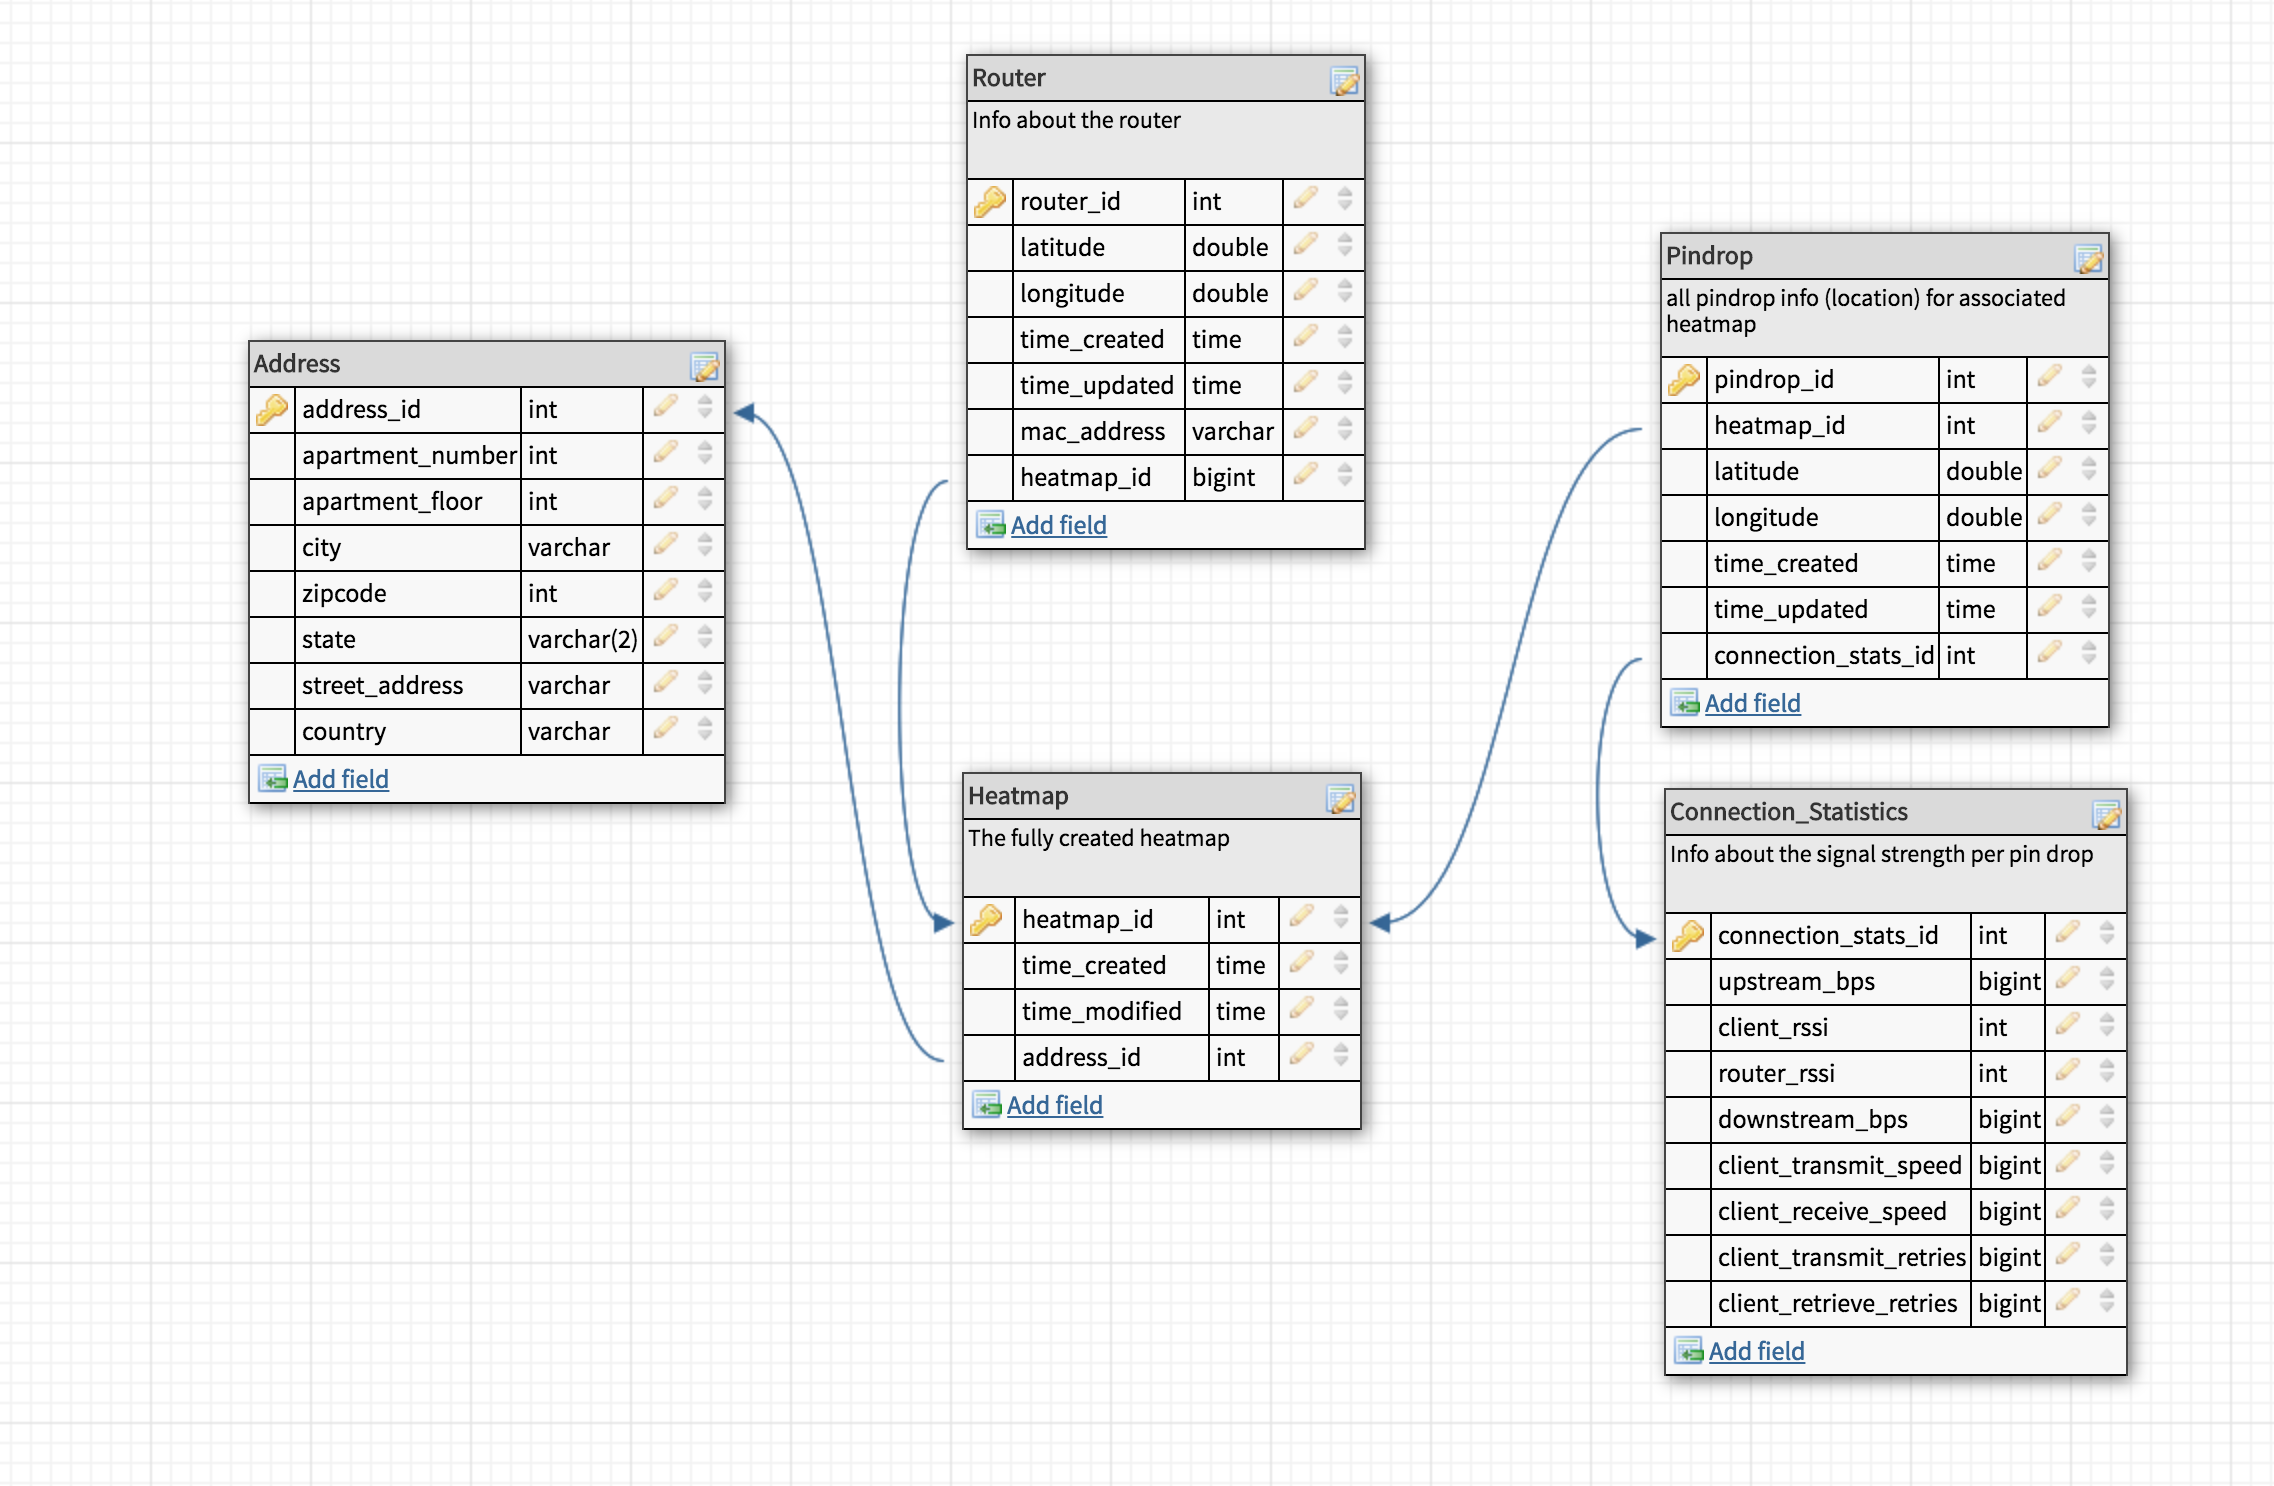
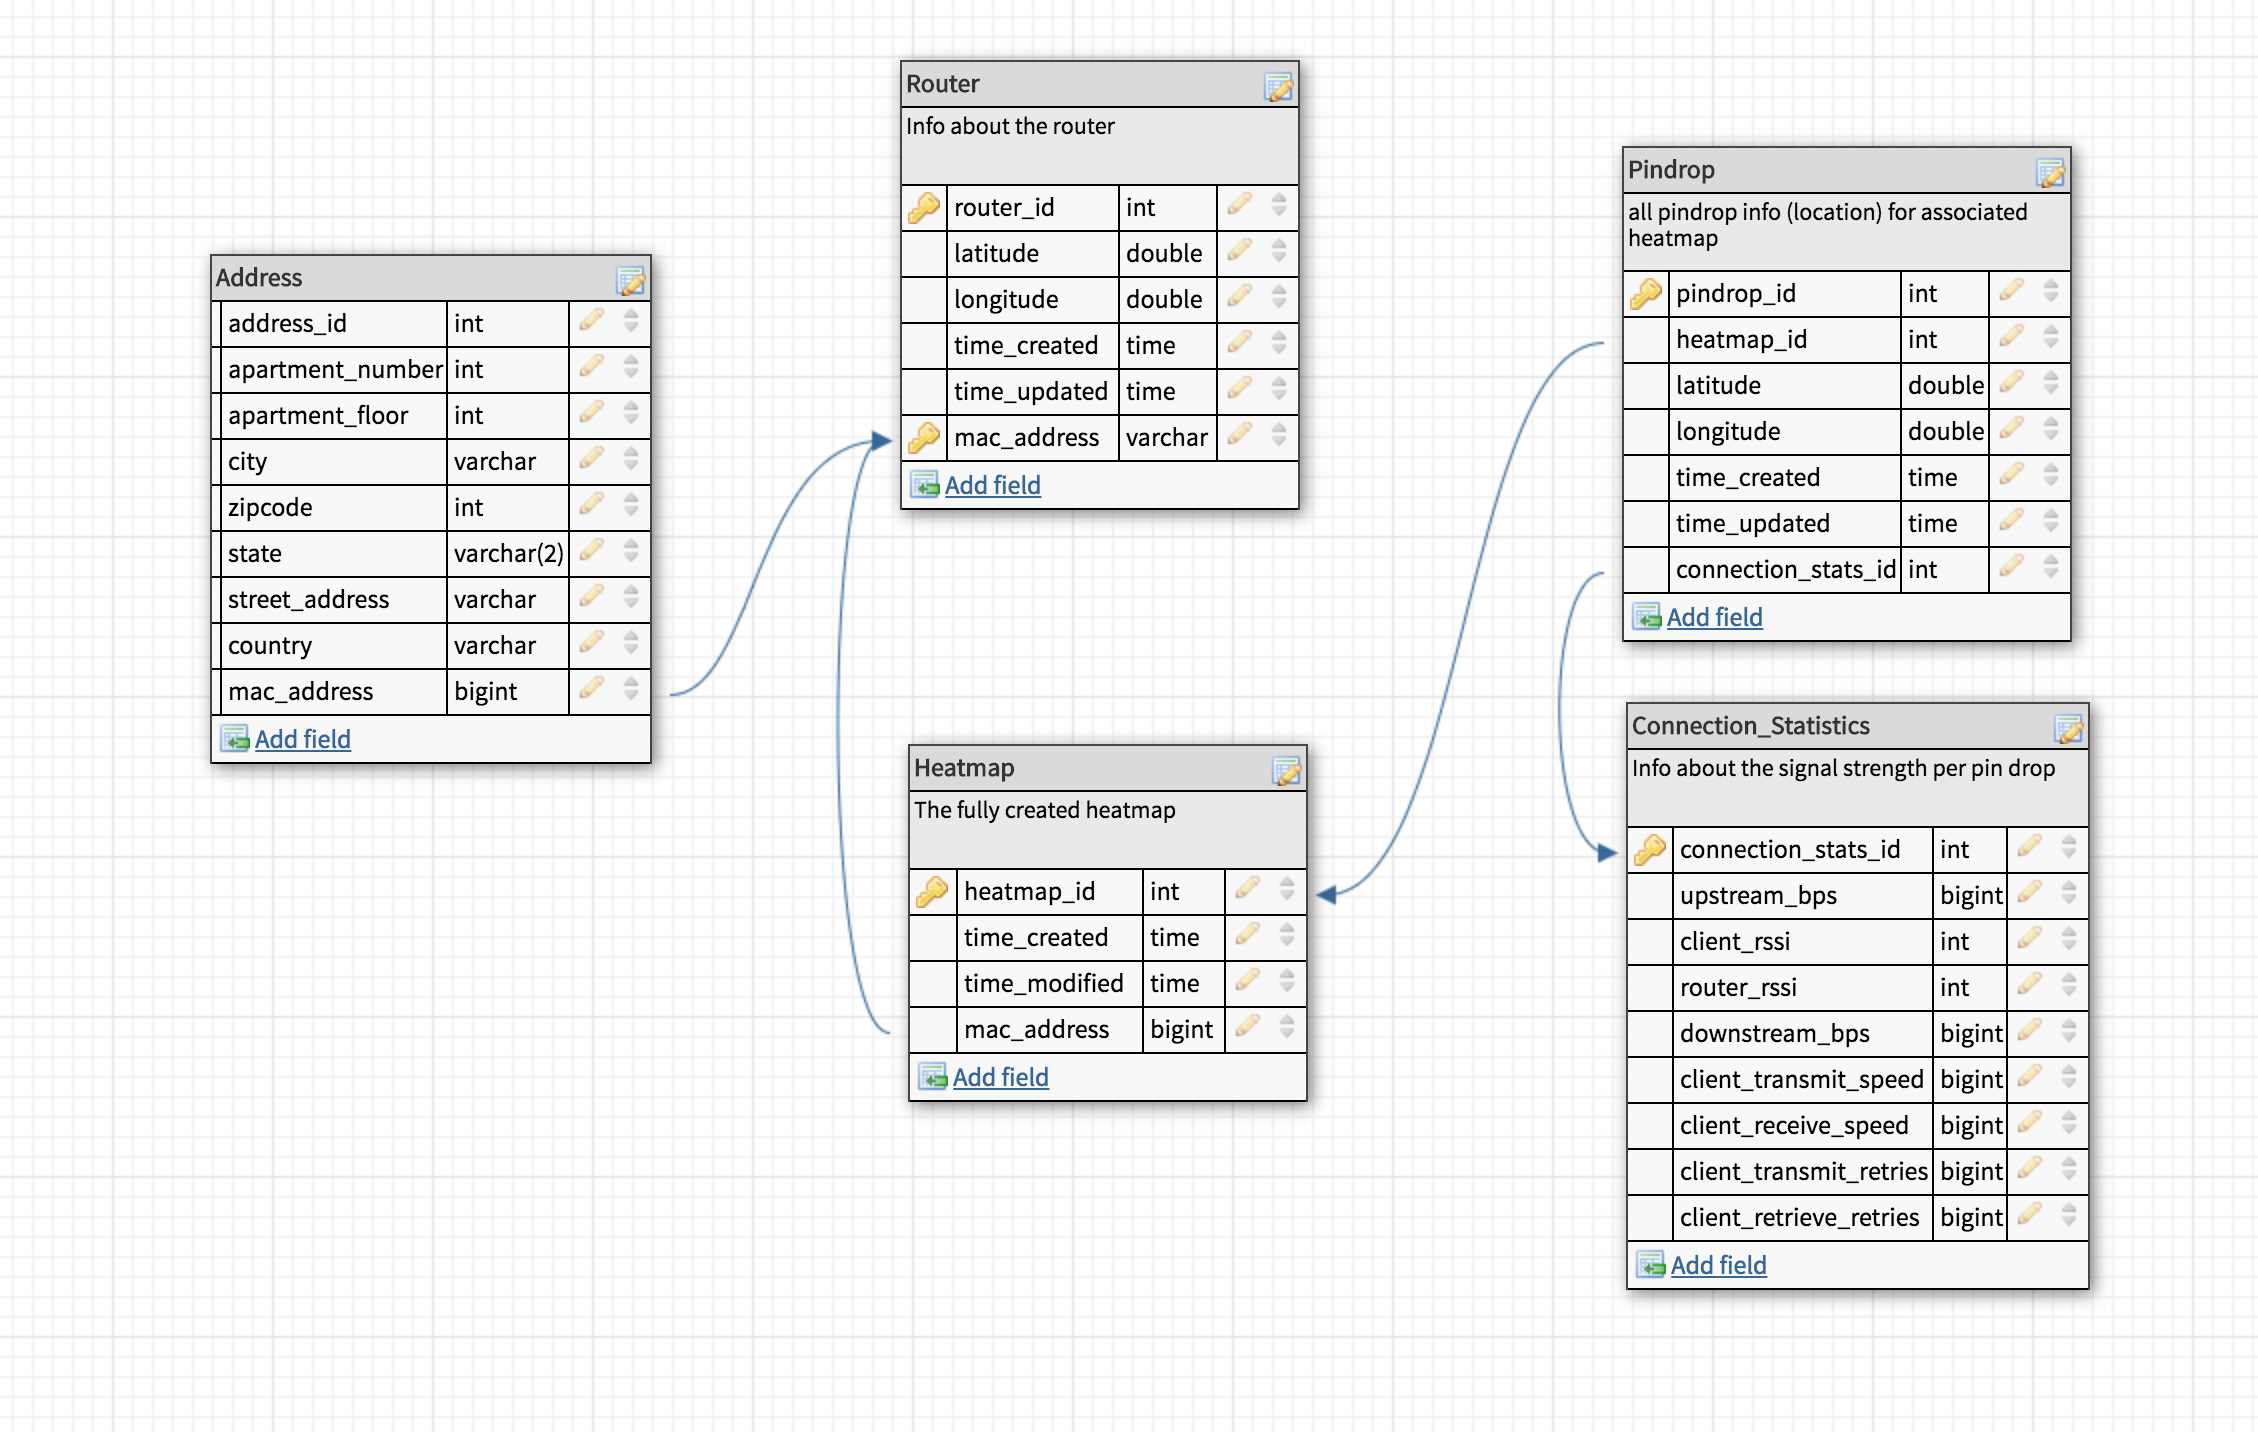
added get request for particular address given mac_address and also updated ReadMe diagram and table of possible requests to reflect this change

diff --git a/dist/v1Routes/AddressesRoute.js b/dist/v1Routes/AddressesRoute.js
@@ -71,5 +71,28 @@ addressesRouter.route('/').post(function checkJSONValues(req, res, next) {
 		throw "Failed to connect to the database: " + err;
 	});
 });
+addressesRouter.route(_paths2.default.addressByMacAddress).get(function (req, res, next) {
+	var mac_address = req.params.mac_address;
+	var database = new _db2.default();
+
+	database.connect(_paths2.default.mongodb).then(function () {
+		var addressCollection = database.db.collection('addresses');
+
+		// find address in addresses db according to existing mac_address field and value from req 
+		addressCollection.findOne({ "mac_address": { $eq: mac_address } }).then(function (address) {
+			if (address) {
+				res.status(200);
+				res.json(address);
+			} else {
+				// 404 indicates that the data doesnt exist in the database
+				res.status(404).send("Address with MAC Address " + mac_address + " could not be found");
+			}
+		}).catch(function (err) {
+			res.status(500).send("Server Error: Failed to GET " + err);
+		});
+	}, function (err) {
+		throw "Failed to connect to the database: " + err;
+	});
+});
 
 exports.default = addressesRouter;

diff --git a/v1Routes/AddressesRoute.js b/v1Routes/AddressesRoute.js
@@ -66,5 +66,37 @@ addressesRouter.route('/')
 					}
 				)
 		})
+addressesRouter.route(paths.addressByMacAddress)
+	.get(
+		(req, res, next) => {
+			var mac_address = req.params.mac_address;
+			var database = new db();
+
+			database.connect(paths.mongodb)
+				.then(
+					function(){
+						var addressCollection = database.db.collection('addresses');
+
+						// find address in addresses db according to existing mac_address field and value from req 
+						addressCollection.findOne({ "mac_address" : { $eq : mac_address }})
+							.then((address) => {
+								if(address){
+									res.status(200);
+									res.json(address);
+								}
+								else{
+									// 404 indicates that the data doesnt exist in the database
+									res.status(404).send("Address with MAC Address " + mac_address + " could not be found");
+								}
+							})
+							.catch((err) => {
+								res.status(500).send("Server Error: Failed to GET " + err);
+							});
+					},
+					function(err){
+						throw("Failed to connect to the database: " + err);
+					}
+				)
+		})
 
 export default addressesRouter

diff --git a/dist/Configs/tableConfigs.js b/dist/Configs/tableConfigs.js
@@ -13,7 +13,8 @@ exports.default = {
 			"zipcode": { "type": "string", pattern: '^.{5,}$', required: true },
 			"state": { "type": "string", pattern: '^.{2,}$', required: true },
 			"street_address": { "type": "string", pattern: '^.{1,}$', required: true },
-			"country": { "type": "string", pattern: '^.{1,}$', required: true }
+			"country": { "type": "string", pattern: '^.{1,}$', required: true },
+			"mac_address": { "type": "string", pattern: '^.{1,}$', required: true }
 		}
 	},
 	heatmap_schema: {
@@ -21,8 +22,7 @@ exports.default = {
 		"properties": {
 			"time_created": { "type": "string", pattern: '^[0-9]{1,}$', required: true },
 			"time_modified": { "type": "string", pattern: '^[0-9]{0,}$', required: true },
-			"address_id": { "type": "string", pattern: '^[0-9]{1,}$' },
-			"router_id": { "type": "string", pattern: '^[0-9]{1,}$' }
+			"mac_address": { "type": "string", pattern: '^.{1,}$', required: true }
 		}
 	},
 	router_schema: {

diff --git a/Configs/tableConfigs.js b/Configs/tableConfigs.js
@@ -9,6 +9,7 @@ export default {
 			"state": { "type" : "string", pattern: '^.{2,}$', required: true  },
 			"street_address": { "type" : "string", pattern: '^.{1,}$', required: true  },
 			"country": { "type" : "string", pattern: '^.{1,}$', required: true },
+			"mac_address": { "type": "string", pattern: '^.{1,}$', required: true },
 		}
 	},
 	heatmap_schema: {
@@ -16,8 +17,7 @@ export default {
 		"properties" : {
 			"time_created": { "type" : "string", pattern: '^[0-9]{1,}$', required: true },
 			"time_modified": { "type" : "string", pattern: '^[0-9]{0,}$', required: true },
-			"address_id": { "type" : "string", pattern: '^[0-9]{1,}$' },
-			"router_id": { "type" : "string", pattern: '^[0-9]{1,}$' },
+			"mac_address": { "type": "string", pattern: '^.{1,}$', required: true },
 		}
 	},
 	router_schema: {

diff --git a/dist/server.js b/dist/server.js
@@ -26,7 +26,7 @@ app.use(_bodyParser2.default.urlencoded({
 }));
 app.use(_bodyParser2.default.json());
 
-/*----------------ADD Routers-------------------*/
+/*----------------ADD Routes-------------------*/
 app.use('/smartrg/v1', _v1Routes2.default);
 
 /*----------------START LISTENING---------------*/

diff --git a/dist/paths.js b/dist/paths.js
@@ -10,5 +10,6 @@ exports.default = {
     addresses: '/addresses',
     routers: '/routers',
     pindrops: '/pindrops',
-    routerByMacAddress: '/by-mac-address/:mac_address'
+    routerByMacAddress: '/by-mac-address/:mac_address',
+    addressByMacAddress: '/by-mac-address/:mac_address'
 };

diff --git a/server.js b/server.js
@@ -15,7 +15,7 @@ app.use(bodyParser.urlencoded({
 }));
 app.use(bodyParser.json());
 
-/*----------------ADD Routers-------------------*/
+/*----------------ADD Routes-------------------*/
 app.use('/smartrg/v1', v1Routes);
 
 /*----------------START LISTENING---------------*/

diff --git a/paths.js b/paths.js
@@ -6,4 +6,5 @@ export default {
     routers: '/routers',
     pindrops: '/pindrops',
     routerByMacAddress: '/by-mac-address/:mac_address',
+    addressByMacAddress: '/by-mac-address/:mac_address',
 }

diff --git a/README.md b/README.md
@@ -27,6 +27,7 @@ Go to [http://localhost:8080/smartRG/v1/](http://localhost:8080/smartRG/v1) to v
 | POST/GET | All Routers: [http://localhost:8080/smartRG/v1/routers](http://localhost:8080/smartRG/v1/routers) | OK: 200 INVALID ENTRIES: 400 SERVER ERROR: 500 |
 | GET | Routers Given MAC Address: [http://localhost:8080/smartRG/v1/routers/by-mac-address/MAC_ADDRESS_VALUE](http://localhost:8080/smartRG/v1/routers/by-mac-address/:mac_address) | OK: 200 DATA NOT FOUND: 404 SERVER ERROR: 500 |
 | POST/GET | All Addresses: [http://localhost:8080/smartRG/v1/addresses](http://localhost:8080/smartRG/v1/addresses) | OK: 200 INVALID ENTRIES: 400 SERVER ERROR: 500 |
+| GET | Address Given MAC Address: [http://localhost:8080/smartRG/v1/addresses/by-mac-address/MAC_ADDRESS_VALUE](http://localhost:8080/smartRG/v1/addresses/by-mac-address/:mac_address) | OK: 200 DATA NOT FOUND: 404 SERVER ERROR: 500 |
 | POST/GET | All Heatmaps: [http://localhost:8080/smartRG/v1/heatmaps](http://localhost:8080/smartRG/v1/heatmaps) | OK: 200 INVALID ENTRIES: 400 SERVER ERROR: 500 |
 | POST/GET | All Connection Statistics: [http://localhost:8080/smartRG/v1/connection-statistics](http://localhost:8080/smartRG/v1/connection-statistics) | OK: 200 INVALID ENTRIES: 400 SERVER ERROR: 500 |
 | POST/GET | All Pindrops: [http://localhost:8080/smartRG/v1/pindrops](http://localhost:8080/smartRG/v1/pindrops) | OK: 200 INVALID ENTRIES: 400 SERVER ERROR: 500 |
